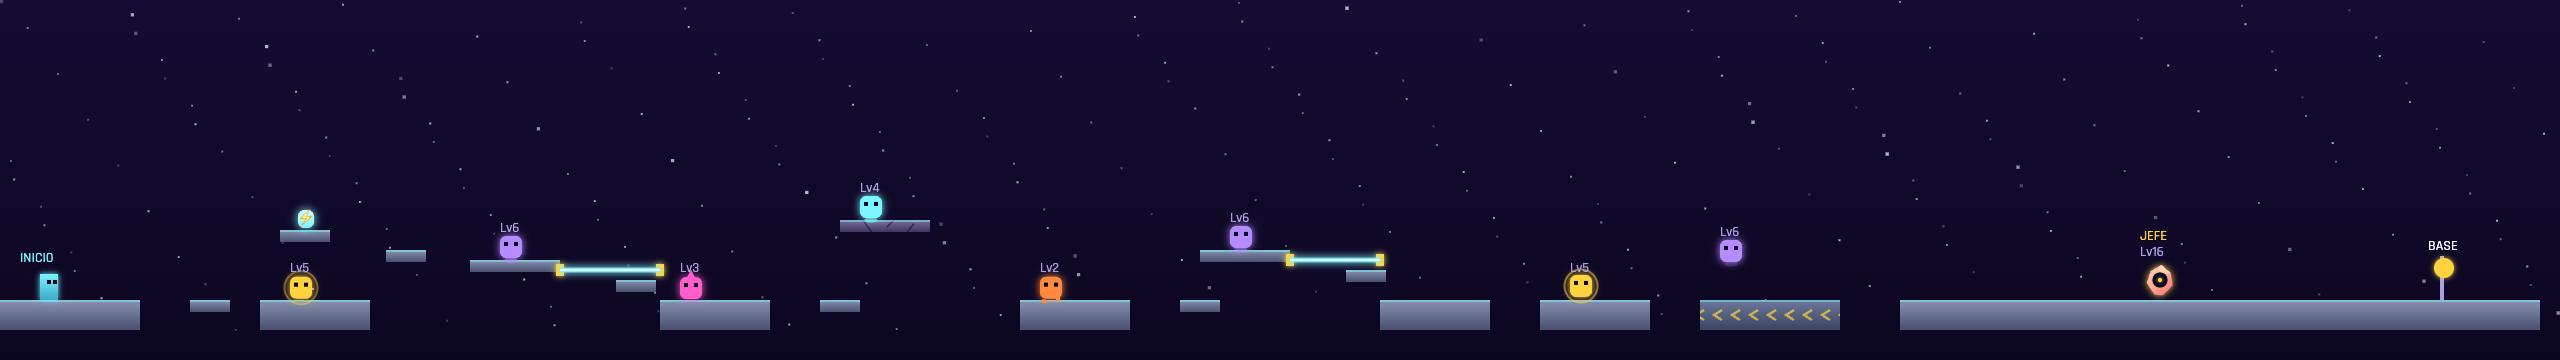
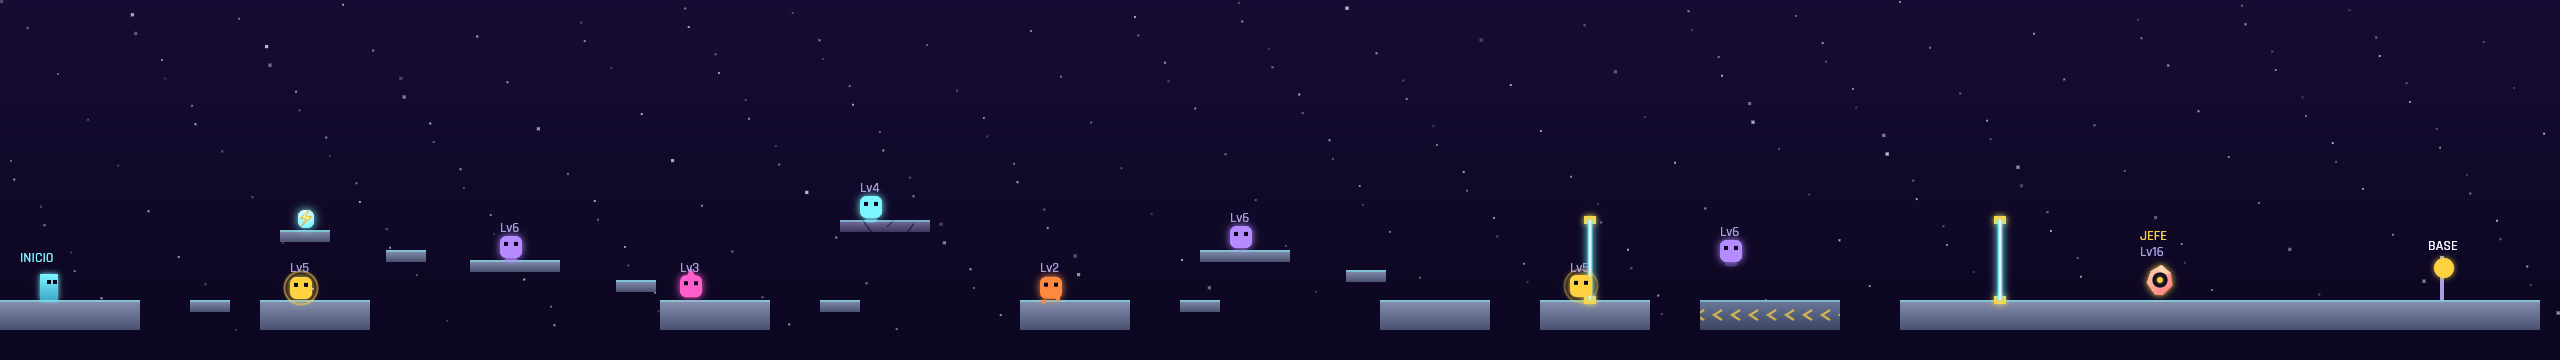
Los rayos pasan a ser puertas de energía verticales — ahora sí hacen daño
Los rayos horizontales sobre los huecos eran un fracaso silencioso: el arco
del salto pasaba por encima, o cruzaba la franja ya fuera de su rango
horizontal — en la práctica no tocaban nunca (el bot cruzó un nivel entero
con la vida intacta). El test no lo detectó porque teletransportaba al
jugador dentro de la franja en vez de llegar saltando como un jugador real.

Ahora son columnas VERTICALES plantadas en el suelo, como las pirañas de
verdad: bloquean el paso en su fase activa (4 de daño + empujón + tregua)
y ofrecen tres monedas para el mismo peaje — esperar el ciclo (tiempo),
saltarlas con la habilidad aérea (Energía; 40 de alto, el salto simple no
llega) o atravesarlas pagando (HP). Recolocadas en tramos sin enemigos
patrullando encima, con desfase entre puertas. Test nuevo que fija que el
salto simple nunca crezca hasta saltarlas gratis (81 en total), daño
verificado en el juego real, y GUIA/README/DESIGN + mapas regenerados.

diff --git a/js/entities.js b/js/entities.js
@@ -711,13 +711,18 @@ class MovingPlatform extends Platform {
     }
 }
 
-// Rayo eléctrico entre dos emisores fijos, al estilo de las pirañas de las tuberías: ciclo FIJO
-// de 150 frames — 90 apagado, 15 de aviso (los emisores chisporrotean) y 45 encendido y dañino.
-// offset desfasa el ciclo entre rayos del mismo nivel para que no se abran todos a la vez.
+// Puerta de energía VERTICAL entre dos emisores (uno arriba, otro clavado en el suelo), al
+// estilo de las pirañas de las tuberías: ciclo FIJO de 150 frames — 90 apagada, 15 de aviso
+// (los emisores chisporrotean) y 45 encendida y dañina. Bloquea el paso a ras de suelo cuando
+// está activa: o esperas el hueco del ciclo, o la superas por ARRIBA — con 40 de alto, el salto
+// simple no basta (sube ~29), pero el doble salto/vuelo/dash sí: la Energía compra tiempo.
+// offset desfasa el ciclo entre puertas del mismo nivel para que no se abran todas a la vez.
 // Frames, no tiempo real: determinista, mismo patrón en cualquier máquina.
+// (La primera versión eran rayos HORIZONTALES sobre los huecos — el arco del salto pasaba casi
+// siempre por encima o cruzaba la franja ya fuera de su rango, y en la práctica no tocaban nunca.)
 class EnergyBeam {
-    constructor(x, y, length, offset = 0) {
-        Object.assign(this, { x, y, w: length, h: 4, t: offset, PERIOD: 150, WARN: 15, ON: 45 });
+    constructor(x, y, height, offset = 0) {
+        Object.assign(this, { x, y, w: 4, h: height, t: offset, PERIOD: 150, WARN: 15, ON: 45 });
     }
     update() { this.t++; }
     phase() {
@@ -728,18 +733,18 @@ class EnergyBeam {
     }
     collides(pl) {
         return this.phase() === 'on'
-            && pl.x < this.x + this.w && pl.x + pl.w > this.x
-            && pl.y < this.y + 3 && pl.y + pl.h > this.y - 3;
+            && pl.x < this.x + 2 && pl.x + pl.w > this.x - 2
+            && pl.y < this.y + this.h && pl.y + pl.h > this.y;
     }
     draw(ctx, cx) {
-        const x1 = this.x - cx, x2 = x1 + this.w, y = this.y;
+        const x = this.x - cx, y1 = this.y, y2 = this.y + this.h;
         const ph = this.phase();
-        // emisores: siempre visibles, para que el hueco "se lea" peligroso también apagado
+        // emisores arriba y abajo: siempre visibles, el paso "se lee" peligroso también apagado
         ctx.save();
         ctx.fillStyle = ph === 'off' ? '#8a84b8' : PALETTE.accent3;
         if (ph !== 'off') { ctx.shadowColor = PALETTE.accent3; ctx.shadowBlur = 6; }
-        ctx.fillRect(x1 - 2, y - 3, 4, 6);
-        ctx.fillRect(x2 - 2, y - 3, 4, 6);
+        ctx.fillRect(x - 3, y1 - 2, 6, 4);
+        ctx.fillRect(x - 3, y2 - 2, 6, 4);
         ctx.restore();
         if (ph === 'warn') {
             // chisporroteo de aviso (fijo y tenue con REDUCE_EFFECTS, sin parpadeo)
@@ -747,16 +752,16 @@ class EnergyBeam {
             ctx.save();
             ctx.strokeStyle = PALETTE.accent3; ctx.globalAlpha = a; ctx.lineWidth = 1;
             ctx.setLineDash([2, 5]);
-            ctx.beginPath(); ctx.moveTo(x1, y); ctx.lineTo(x2, y); ctx.stroke();
+            ctx.beginPath(); ctx.moveTo(x, y1); ctx.lineTo(x, y2); ctx.stroke();
             ctx.restore();
         } else if (ph === 'on') {
             const flick = window.REDUCE_EFFECTS ? 1 : 0.85 + Math.random() * 0.15;
             ctx.save();
             ctx.shadowColor = PALETTE.accent; ctx.shadowBlur = 8;
             ctx.strokeStyle = `rgba(124,245,255,${flick})`; ctx.lineWidth = 2.4;
-            ctx.beginPath(); ctx.moveTo(x1, y); ctx.lineTo(x2, y); ctx.stroke();
+            ctx.beginPath(); ctx.moveTo(x, y1); ctx.lineTo(x, y2); ctx.stroke();
             ctx.strokeStyle = `rgba(245,243,255,${flick})`; ctx.lineWidth = 1;
-            ctx.beginPath(); ctx.moveTo(x1, y); ctx.lineTo(x2, y); ctx.stroke();
+            ctx.beginPath(); ctx.moveTo(x, y1); ctx.lineTo(x, y2); ctx.stroke();
             ctx.restore();
         }
     }

diff --git a/js/levels.js b/js/levels.js
@@ -143,10 +143,11 @@ const LEVELS = [
             // Tramo final añadido al alargar el nivel (huecos ≤25 en llano, salto simple).
             [855, 150, 55, 15], [935, 150, 65, 15], [890, 118, 40, 6]
         ],
-        // Mundo 3: debutan los RAYOS ELÉCTRICOS ([x, y, longitud, desfase]): cruzan un hueco
-        // entre dos emisores con ciclo fijo de 2.5s (1.5 apagado, 0.25 aviso, 0.75 activo).
-        // El desfase alterna los dos rayos para que nunca estén abiertos a la vez.
-        beams: [[275, 136, 45, 0], [635, 136, 45, 75]],
+        // Mundo 3: debutan las PUERTAS DE ENERGÍA ([x, yTop, altura, desfase]): columna vertical
+        // entre dos emisores clavada en el suelo, ciclo fijo de 2.5s (1.5 apagada, 0.25 aviso,
+        // 0.75 activa). Con 40 de alto el salto simple no la supera: esperas el ciclo o gastas
+        // Energía en la habilidad aérea. Colocadas en tramos SIN enemigos patrullando encima.
+        beams: [[525, 110, 40, 0], [740, 110, 40, 75]],
         enemies: [[150, 138, 'crawler'], [240, 118, 'hoverbot', 50], [330, 138, 'spiker'], [420, 103, 'ionwisp', 55], [600, 118, 'magnetite'], [865, 138, 'spiker'], [900, 106, 'hoverbot', 45]],
         capsules: [[254, 94]],
         goal: 965
@@ -188,7 +189,7 @@ const LEVELS = [
             [95, 150, 20, 6], [193, 125, 20, 6], [308, 140, 20, 6],
             [410, 150, 20, 6], [590, 150, 20, 6], [673, 135, 20, 6]
         ],
-        beams: [[280, 135, 50, 75], [645, 130, 45, 0]],
+        beams: [[795, 110, 40, 0], [1000, 110, 40, 75]],
         enemies: [[145, 138, 'magnetite'], [250, 118, 'ionwisp', 40], [340, 138, 'spiker'], [430, 98, 'hoverbot', 45], [520, 138, 'crawler'], [615, 113, 'ionwisp', 50], [785, 138, 'magnetite'], [860, 120, 'ionwisp', 45], [1070, 130, 'overlord']],
         energyCells: [[149, 105]],
         goal: 1220, boss: 'overlord'
@@ -213,7 +214,8 @@ const LEVELS = [
             // Tramo final añadido al alargar el nivel (huecos ≤25 en llano, salto simple).
             [885, 150, 55, 15, 'beltL'], [965, 150, 65, 15], [915, 118, 40, 6]
         ],
-        beams: [[275, 135, 45, 0], [635, 135, 45, 75]],
+        // Pasillo de doble puerta desfasada justo tras la bóveda del refuerzo: el set piece del nivel.
+        beams: [[720, 110, 40, 0], [800, 110, 40, 75]],
         // Parche reforzado que tapa una bóveda justo debajo, al ras del suelo — igual que el
         // primer secreto de Scrap en Cráter de Amerizaje (nivel 1): cualquiera camina encima sin
         // notarlo, solo Scrap puede romperlo y bajar a por la cápsula.
@@ -239,7 +241,7 @@ const LEVELS = [
             [1105, 150, 55, 15], [1185, 145, 45, 6, 'fragile'], [1255, 150, 70, 15]
         ],
         movingPlatforms: [[368, 95, 36, 6, 16, 0.02], [698, 95, 36, 6, 16, 0.025]],
-        beams: [[1160, 148, 25, 0]],
+        beams: [[1040, 110, 40, 0]],
         reinforcedBlocks: [[945, 150, 20, 8]],
         enemies: [[200, 133, 'ionwisp', 60], [330, 113, 'spiker'], [460, 93, 'ionwisp', 65], [590, 113, 'hoverbot', 55], [720, 133, 'magnetite'], [850, 138, 'spiker'], [1120, 138, 'magnetite'], [1195, 133, 'spiker']],
         energyCells: [[952, 162]],
@@ -261,7 +263,8 @@ const LEVELS = [
             [430, 150, 20, 6], [610, 150, 20, 6], [693, 135, 20, 6]
         ],
         movingPlatforms: [[905, 100, 40, 6, 16, 0.02]],
-        beams: [[405, 140, 35, 0], [765, 140, 25, 75]],
+        // Doble puerta desfasada en la arena, el último control antes de Nodo Cero.
+        beams: [[1010, 110, 40, 0], [1075, 110, 40, 75]],
         enemies: [[160, 138, 'magnetite'], [265, 118, 'ionwisp', 45], [360, 138, 'spiker'], [450, 98, 'hoverbot', 45], [540, 138, 'magnetite'], [630, 113, 'ionwisp', 50], [720, 138, 'spiker'], [805, 138, 'crawler'], [885, 138, 'magnetite'], [1130, 130, 'nodo_cero']],
         goal: 1260, boss: 'nodo_cero'
     }

diff --git a/__tests__/live.test.js b/__tests__/live.test.js
@@ -653,25 +653,43 @@ describe('Peligros: frágiles, móviles, rayos y cintas (contra el código real)
         expect(b.phase()).toBe('off');
     });
 
-    test('cruzar un rayo activo (nivel 7 real) daña y concede tregua de invulnerabilidad', () => {
-        const { game } = inLevel(6); // Muelle de Carga: primer nivel con rayos
+    test('tocar una puerta de energía activa (nivel 7 real) daña, empuja y concede tregua', () => {
+        const { game } = inLevel(6); // Muelle de Carga: primer nivel con puertas
         const beam = game.beams[0];
-        beam.t = beam.PERIOD - beam.ON; // forzado a fase activa
-        game.player.x = beam.x + 10; game.player.y = beam.y - 8; game.player.vy = 0;
+        beam.t = beam.PERIOD - beam.ON; // forzada a fase activa
+        // andando hacia la columna a ras de suelo desde la izquierda, solapando su banda x±2
+        game.player.x = beam.x - 6; game.player.y = 137; game.player.vy = 0; game.player.onGround = true;
         const hp0 = game.player.hp;
         game.update();
         expect(game.player.hp).toBe(hp0 - Math.max(1, 4 - game.player.defense));
         expect(game.playerInvulnerable).toBe(50); // tregua: no re-golpea cada frame
+        expect(game.player.x).toBeLessThan(beam.x - 6); // el empujón lo devuelve por donde venía
     });
 
-    test('un rayo apagado no hace nada aunque lo cruces', () => {
+    test('una puerta apagada no hace nada aunque la cruces', () => {
         const { game } = inLevel(6);
         const beam = game.beams[0];
         beam.t = 0; // fase apagada
-        game.player.x = beam.x + 10; game.player.y = beam.y - 8; game.player.vy = 0;
+        game.player.x = beam.x - 4; game.player.y = 137; game.player.vy = 0; game.player.onGround = true;
         const hp0 = game.player.hp;
         game.update();
         expect(game.player.hp).toBe(hp0);
+    });
+
+    test('regla de diseño: el salto simple NO supera los 40 de alto de una puerta', () => {
+        // Si algún día sube jumpPower, este test avisa de que las puertas dejan de ser puertas
+        // (se saltarían por encima gratis, sin gastar Energía ni esperar el ciclo).
+        const { Player } = loadGame();
+        const pl = new Player(0, 137, 'kes');
+        pl.onGround = true;
+        const particles = { burst() {} };
+        let jumped = false, minFeet = 150;
+        for (let f = 0; f < 80; f++) {
+            pl.update({ Space: !jumped }, [], particles);
+            jumped = true;
+            minFeet = Math.min(minFeet, pl.y + pl.h);
+        }
+        expect(150 - minFeet).toBeLessThan(40); // altura máxima del salto simple < altura de puerta
     });
 
     test('una cinta (nivel 9 real) arrastra al jugador parado hacia atrás', () => {

diff --git a/js/game.js b/js/game.js
@@ -612,7 +612,7 @@ class Game {
         (level.movingPlatforms || []).forEach(([mx, my, mw, mh, amp, omega]) => {
             this.platforms.push(new MovingPlatform(mx, my, mw, mh, amp, omega, level.variant));
         });
-        this.beams = (level.beams || []).map(([bx, by, len, off]) => new EnergyBeam(bx, by, len, off));
+        this.beams = (level.beams || []).map(([bx, by, bh, off]) => new EnergyBeam(bx, by, bh, off));
         const levelCompleted = this.worldMap.nodes[lvl].completed;
         this.enemies = level.enemies.map((e, i) => {
             const enemy = new Enemy(...e);
@@ -1238,13 +1238,16 @@ class Game {
                 }
             }
 
-            // Rayos eléctricos: dañan solo en su fase activa, con la misma tregua de
-            // invulnerabilidad que el muro del Túnel (no es muerte instantánea).
+            // Puertas de energía: dañan solo en su fase activa, con la misma tregua de
+            // invulnerabilidad que el muro del Túnel (no es muerte instantánea). El empujón
+            // saca al jugador de la columna — sin él, quedarse dentro re-golpea cada tregua.
             for (const beam of this.beams) {
                 beam.update();
                 if (this.playerInvulnerable === 0 && beam.collides(this.player)) {
                     this.player.takeDamage(4);
                     this.playerInvulnerable = 50;
+                    this.player.x += this.player.x + this.player.w / 2 < beam.x ? -10 : 10;
+                    this.player.vy = Math.min(this.player.vy, -1.5);
                     this.shake = Math.max(this.shake, 5);
                     this.particles.burst(this.player.x + this.player.w / 2, this.player.y + this.player.h / 2, PALETTE.accent, 10, { speed: 1.8, life: 18, size: 2 });
                     if (window.SFX) SFX.zap();

diff --git a/GUIA.md b/GUIA.md
@@ -11,7 +11,7 @@ Todo lo que hay en el juego: pilotos, fórmulas de combate, bestiario, estrategi
 - **Franjas ámbar** en una plataforma — refuerzo que solo Scrap rompe al caminar encima.
 - **Plataforma agrietada** — frágil: se desmorona al pisarla (ver Peligros).
 - **Raíl punteado vertical** — plataforma móvil que sube y baja por ese recorrido.
-- **Dos emisores ámbar con línea cian** — rayo eléctrico (dibujado activo en el mapa).
+- **Columna cian vertical entre dos emisores ámbar** — puerta de energía (dibujada activa en el mapa).
 - **Chevrones animados** en una plataforma — cinta que te arrastra en esa dirección.
 - Color de plataforma según el mundo: violeta (Luna Cenizal), hielo (Grietas), gris metal (resto).
 
@@ -79,7 +79,7 @@ El Mundo 1 es terreno amable; a partir del Mundo 2 el propio suelo empieza a con
 |---|---|---|---|
 | **Plataforma frágil** (agrietada) | Mundo 2 (nivel 4) | Al pisarla tiembla y se desmorona a los ~0,8s. **Reaparece a los 3s** — nunca te deja encerrado | No te pares encima: cruza de una pasada. Si cae, espera a que reaparezca |
 | **Plataforma móvil** (raíl punteado) | Mundo 2 (nivel 4) | Sube y baja en ciclo constante. Te lleva encima sin resbalar | Son atajos de ruta alta — el camino obligatorio nunca depende de ellas |
-| **Rayo eléctrico** (dos emisores) | Mundo 3 (nivel 7) | Ciclo fijo de 2,5s: 1,5s apagado → 0,25s de aviso (chisporroteo) → 0,75s activo. Activo hace **4 de daño** con tregua de invulnerabilidad después | El chisporroteo es tu semáforo: si los emisores chispean, espera; si acaba de apagarse, tienes 1,5s de sobra. Los rayos del mismo nivel van desfasados |
+| **Puerta de energía** (columna vertical entre emisores) | Mundo 3 (nivel 7) | Bloquea el paso a ras de suelo con ciclo fijo de 2,5s: 1,5s apagada → 0,25s de aviso (chisporroteo) → 0,75s activa. Activa hace **4 de daño** y te empuja hacia atrás, con tregua de invulnerabilidad | Tres opciones: **esperar** el ciclo (el chisporroteo es tu semáforo), **saltarla por arriba** con habilidad aérea (40 de alto: el salto simple no llega, el doble salto/vuelo/dash sí — la Energía compra tiempo), o **atravesarla pagando** los 4 de daño y aprovechando la tregua. Las puertas de un mismo nivel van desfasadas |
 | **Cinta magnética** (chevrones) | Mundo 3 (nivel 9) | Te arrastra ~30% de tu velocidad en la dirección de los chevrones — siempre en contra | Camina sin pararte (avanzas igual, más despacio) y no te detengas cerca de un borde |
 
 Todos los peligros van con reloj **de frames, no de tiempo real**: el patrón es idéntico en cualquier máquina, y en el Reto Diario es el mismo para todo el mundo (aunque los niveles del reto, 1–2, no tienen ninguno).
@@ -167,7 +167,7 @@ Sin secretos: nivel de puro camino hacia el [Centinela](#-centinela--núcleo-
 
 ![Mapa del nivel 7](guia/nivel-07.png)
 
-Mezcla de todo el bestiario y **debut de los rayos eléctricos**: dos, desfasados entre sí, cruzando los huecos del segundo y el penúltimo islote — espera al ciclo o pasa por abajo. Aquí recoges la pieza de la nave — y despiertas el núcleo (narrativamente: por esto el nivel 8 es lo que es).
+Mezcla de todo el bestiario y **debut de las puertas de energía**: dos, desfasadas entre sí, plantadas en el suelo a mitad y al final del nivel — espera el hueco del ciclo o salta por encima con tu habilidad aérea. Aquí recoges la pieza de la nave — y despiertas el núcleo (narrativamente: por esto el nivel 8 es lo que es).
 - **♥ Cápsula**: plataforma secreta sobre el segundo islote — **salto simple** bien colocado.
 
 ### Nivel 8 · Túnel de Escape (Estación Colapsada) — SCROLL FORZADO
@@ -180,28 +180,28 @@ Mezcla de todo el bestiario y **debut de los rayos eléctricos**: dos, desfasado
 
 ![Mapa del nivel 9](guia/nivel-09.png)
 
-El nivel más largo de enemigos antes del [Overlord](#-overlord--núcleo-del-reactor-nivel-9): 8 enemigos Lv2-6 — una mina de XP y Energía. Dos rayos desfasados, un islote **frágil**, y **debut de la cinta magnética**: la antesala del jefe te arrastra hacia atrás (camina sin pararte).
+El nivel más largo de enemigos antes del [Overlord](#-overlord--núcleo-del-reactor-nivel-9): 8 enemigos Lv2-6 — una mina de XP y Energía. Dos puertas de energía desfasadas (una en plena arena del jefe), un islote **frágil**, y **debut de la cinta magnética**: la antesala del jefe te arrastra hacia atrás (camina sin pararte).
 - **⚡ Célula**: plataforma secreta nada más empezar, sobre el segundo islote — **doble salto cronometrado**. Cógela ANTES del jefe.
 
 ### Nivel 10 · Bóveda Sellada (Núcleo Expuesto)
 
 ![Mapa del nivel 10](guia/nivel-10.png)
 
-El mundo que solo se entiende con Scrap desbloqueado. Mundo 4 = todo junto: dos rayos desfasados, un islote **frágil** y una **cinta** en contra en el tramo final.
+El mundo que solo se entiende con Scrap desbloqueado. Mundo 4 = todo junto: un **pasillo de doble puerta desfasada** justo después de la bóveda del refuerzo, un islote **frágil** y una **cinta** en contra en el tramo final.
 - **♥ Cápsula**: bóveda bajo el **refuerzo ámbar** del último tramo — solo Scrap.
 
 ### Nivel 11 · Galería de Ecos (Núcleo Expuesto)
 
 ![Mapa del nivel 11](guia/nivel-11.png)
 
-Huecos largos estilo Tormenta de Iones, con piedras de paso para la ruta baja — pero una de las piedras es **frágil**, hay **dos móviles** de atajo en la ruta alta, otro islote frágil y un rayo custodiando el tramo final.
+Huecos largos estilo Tormenta de Iones, con piedras de paso para la ruta baja — pero una de las piedras es **frágil**, hay **dos móviles** de atajo en la ruta alta, otro islote frágil y una puerta de energía custodiando el tramo tras la bóveda.
 - **⚡ Célula**: bóveda bajo el **refuerzo ámbar** cerca del final — solo Scrap. La última mejora permanente del juego.
 
 ### Nivel 12 · Nodo Cero (Núcleo Expuesto) — JEFE FINAL
 
 ![Mapa del nivel 12](guia/nivel-12.png)
 
-9 enemigos de todo el bestiario en escalada hasta [Nodo Cero](#-nodo-cero--nodo-cero-nivel-12-jefe-final), con el examen final del terreno: dos islotes **frágiles**, dos rayos desfasados, una **móvil** y una **cinta** en contra como peaje justo antes del jefe. Pisotea todo lo que puedas para llegar con la Energía llena: el duelo final premia poder encadenar Habilidades.
+9 enemigos de todo el bestiario en escalada hasta [Nodo Cero](#-nodo-cero--nodo-cero-nivel-12-jefe-final), con el examen final del terreno: dos islotes **frágiles**, una **móvil**, una **cinta** en contra y una **doble puerta desfasada en la propia arena**, el último control antes del jefe. Pisotea todo lo que puedas para llegar con la Energía llena: el duelo final premia poder encadenar Habilidades.
 
 ---
 

diff --git a/DESIGN.md b/DESIGN.md
@@ -298,5 +298,5 @@ Hasta aquí la dificultad crecía solo por stats de enemigos y anchura de huecos
 
 - **Plataformas frágiles** (5º elemento `'fragile'` en `platforms`): al pisarlas arranca una cuenta atrás de 50 frames (tiemblan; con `reduceEffects`, parpadean en alfa en vez de temblar) y desaparecen... pero **reaparecen a los 180 frames**. Reaparecer es la decisión clave: un nivel nunca queda bloqueado sin salida, así que pueden estar en el camino obligatorio y el test BFS puede contarlas como suelo.
 - **Plataformas móviles** (`MovingPlatform`, array `movingPlatforms` aparte): senoide vertical sobre su Y base. El motor ya "lleva" al jugador gratis (gravedad + snap de aterrizaje cada frame), con la condición de que su velocidad vertical máxima (`amplitud × omega`) quede por debajo de la gravedad (0.32) o el snap lo pierde. Van en un array que el **BFS no cuenta a propósito**: son atajos/ruta alta, el camino obligatorio funciona sin ellas — nunca dependes de cazar una plataforma en movimiento.
-- **Rayos eléctricos** (`EnergyBeam`, array `beams`: `[x, y, longitud, desfase]`): el préstamo de las pirañas de Super Mario — un peligro periódico que convierte cruzar un hueco en una cuestión de timing. Ciclo fijo de 150 frames (90 apagado, 15 de aviso con chisporroteo en los emisores, 45 activo), daño 4 con la misma tregua de invulnerabilidad que el muro del Túnel. Los emisores se ven siempre (el hueco "se lee" peligroso también apagado) y el desfase alterna los rayos de un mismo nivel. Frames, no tiempo real: determinista en cualquier máquina.
+- **Puertas de energía** (`EnergyBeam`, array `beams`: `[x, yTop, altura, desfase]`): el préstamo de las pirañas de Super Mario — un peligro periódico que convierte avanzar en una cuestión de timing. Columna VERTICAL entre dos emisores plantada en el suelo, ciclo fijo de 150 frames (90 apagada, 15 de aviso con chisporroteo, 45 activa), daño 4 + empujón hacia atrás, con la misma tregua de invulnerabilidad que el muro del Túnel. Con 40 de alto el salto simple (sube ~29) no la supera: o esperas el ciclo, o gastas Energía en la habilidad aérea, o la atraviesas pagando los 4 de daño — tres monedas distintas (tiempo, Energía, HP) para el mismo peaje, y un test fija que el salto simple nunca crezca hasta saltarla gratis. **La primera versión eran rayos horizontales tendidos sobre los huecos y fue un fracaso silencioso**: el arco del salto pasaba por encima, o cruzaba la franja cuando ya estaba fuera de su rango horizontal — en la práctica no tocaban nunca (el bot cruzó un nivel entero con la vida intacta). El test de integración no lo detectó porque teletransportaba al jugador dentro de la franja en vez de llegar saltando como un jugador real. Los emisores se ven siempre (el paso "se lee" peligroso también apagado) y el desfase alterna las puertas de un mismo nivel. Frames, no tiempo real: determinista en cualquier máquina.
 - **Cintas magnéticas** (variantes `'beltL'`/`'beltR'`): arrastran al jugador 0.45/frame (~30% de su velocidad) mientras está de pie encima — siempre colocadas EN CONTRA, como peaje que ralentiza sin bloquear. Reutilizan el mismo chequeo de "de pie sobre la plataforma" que los refuerzos de Scrap (ahora un único bucle para frágiles/cintas/refuerzos).

diff --git a/README.md b/README.md
@@ -53,11 +53,11 @@ Todos los niveles se pueden completar con cualquier piloto (verificado por un te
 | 2 · Luna Ferrosa | 4 | Chatarral Magnético | Enemigos voladores; **debutan las plataformas frágiles y las móviles** |
 | | 5 | Tormenta de Iones | Huecos largos, la ruta alta exige habilidad aérea |
 | | 6 | Núcleo del Centinela | **Jefe: Centinela** — carga un turno y golpea el doble (ventana para Defender) |
-| 3 · Estación Colapsada | 7 | Muelle de Carga | **Debutan los rayos eléctricos** (cíclicos, entre emisores); despierta el núcleo |
+| 3 · Estación Colapsada | 7 | Muelle de Carga | **Debutan las puertas de energía** (columnas cíclicas que bloquean el paso); despierta el núcleo |
 | | 8 | Túnel de Escape | **Scroll forzado**: tras 5s de cuenta atrás, un muro de energía avanza solo — con islotes frágiles bajo presión |
 | | 9 | Núcleo del Reactor | **Jefe: Overlord** — ignora Defender cada 3 turnos; **debuta la cinta magnética** en contra |
 | 4 · Núcleo Expuesto | 10 | Bóveda Sellada | El mundo que Scrap abre; todos los peligros combinados |
-| | 11 | Galería de Ecos | Huecos largos + móviles, frágiles y rayos |
+| | 11 | Galería de Ecos | Huecos largos + móviles, frágiles y una puerta de energía |
 | | 12 | Nodo Cero | **Jefe final: Nodo Cero** — combina los 3 patrones anteriores; el terreno combina los 4 peligros |
 
 ## Bestiario
